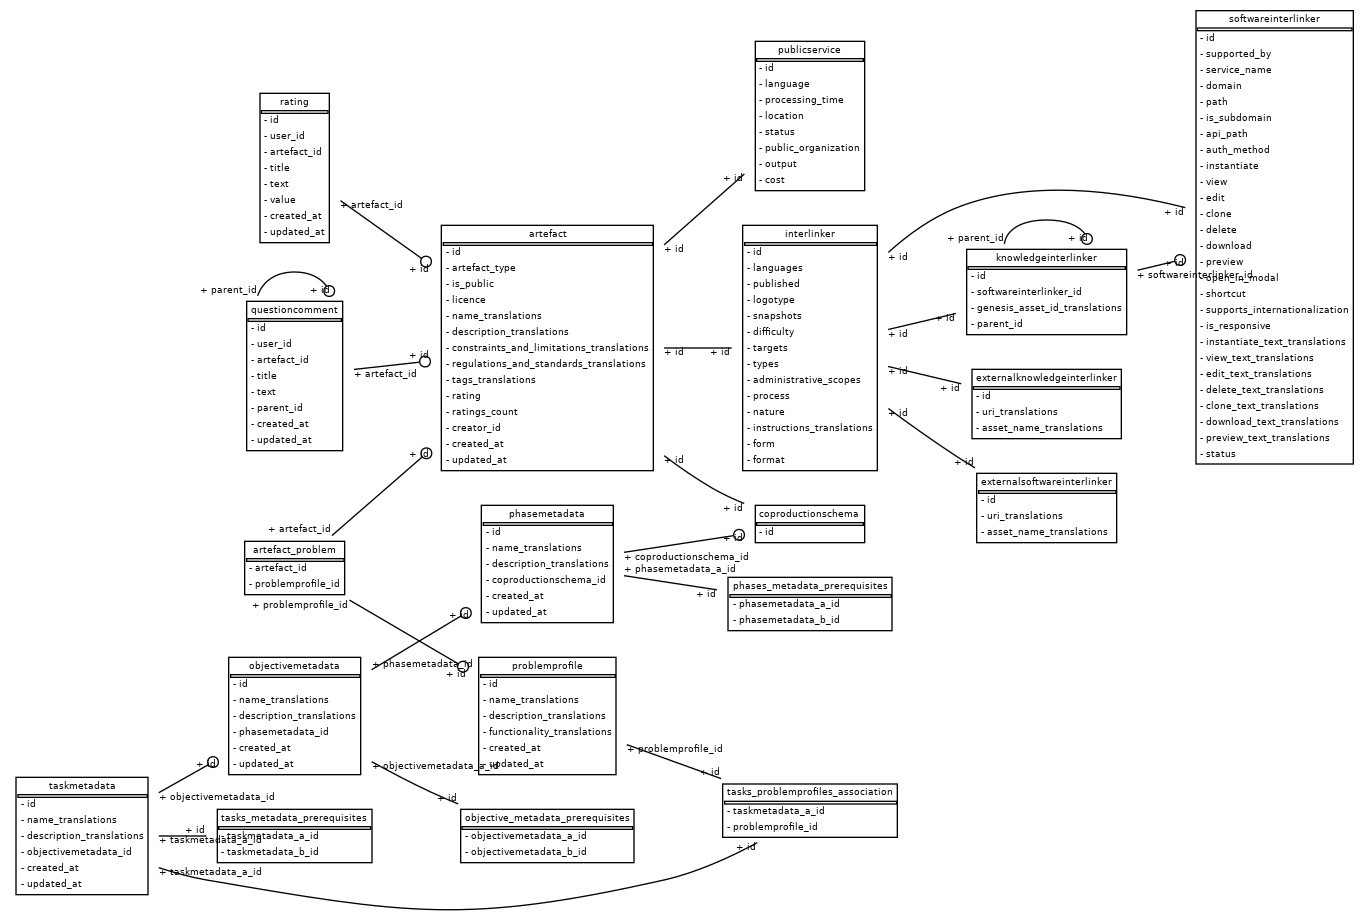
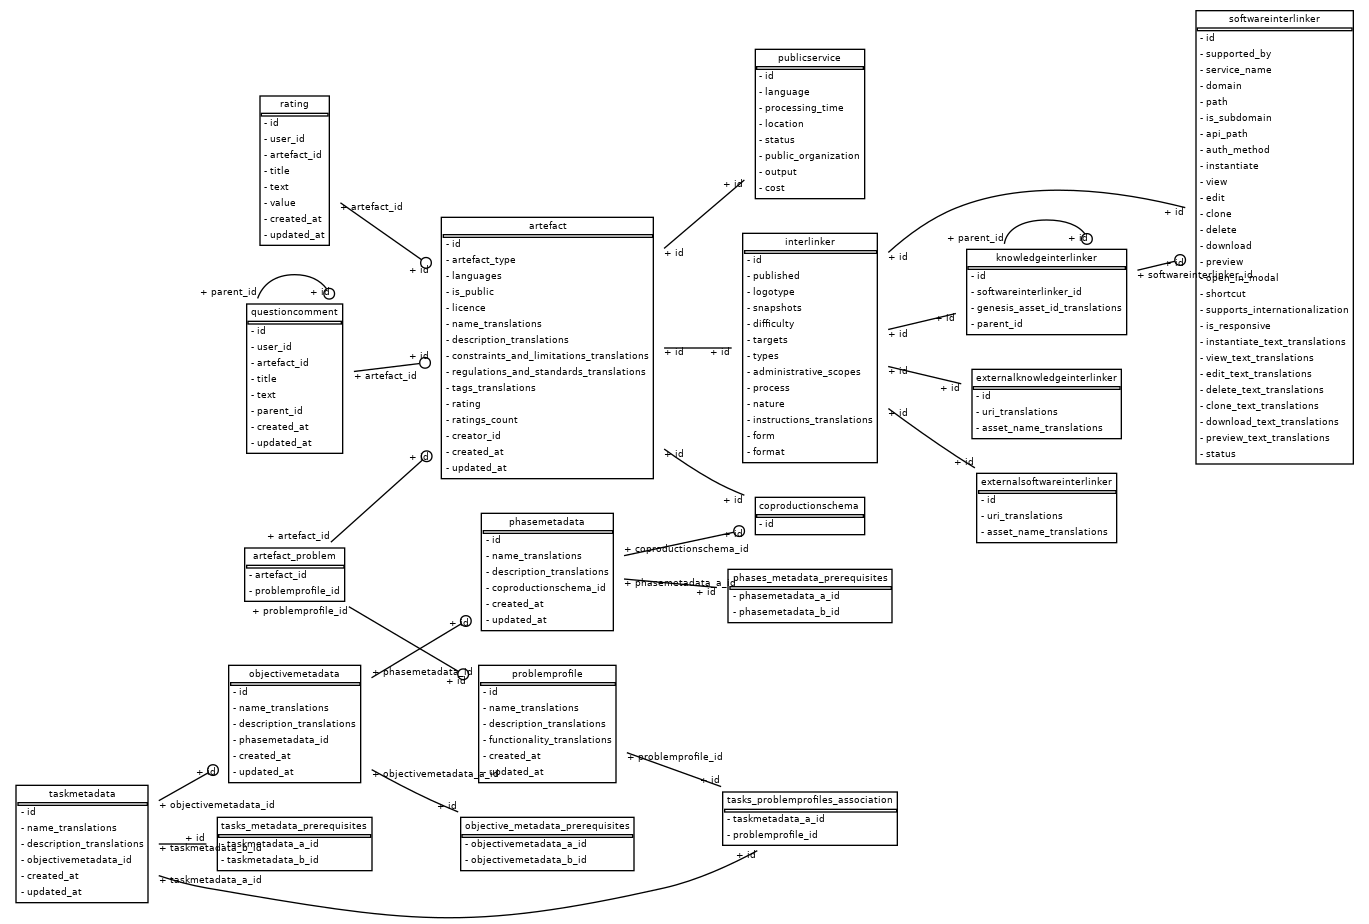
Avoid circular prerequisites

diff --git a/catalogue/app/initial_data.py b/catalogue/app/initial_data.py
@@ -20,8 +20,6 @@ logger = logging.getLogger(__name__)
 
 # in start-dev.sh and start-prod.sh it is made a git clone of https://github.com/interlink-project/interlinkers-data/
 
-remove = False
-
 class bcolors:
     HEADER = "\033[95m"
     OKBLUE = "\033[94m"
@@ -89,10 +87,8 @@ async def create_interlinker(db, metadata_path, software=False, externalsoftware
     print(f"\n{bcolors.OKBLUE}Processing {bcolors.ENDC}{bcolors.BOLD}{name}{bcolors.ENDC}")
 
     if (interlinker := await crud.interlinker.get_by_name(db=db, name=name)):
-        if not remove: 
-            print(f"\t{bcolors.WARNING}Already in the database{bcolors.ENDC}")
-            return
-        crud.interlinker.remove(db=db, id=interlinker.id)
+        print(f"\t{bcolors.WARNING}Already in the database{bcolors.ENDC}")
+        return
 
     # parent folder where metadata.json is located
     folder = metadata_path.parents[0]
@@ -187,15 +183,13 @@ async def create_problemprofile(db, problem):
         db=db,
         id=id
     ):
-        if not remove:
-            print(f"\t{bcolors.WARNING}{id} already in the database{bcolors.ENDC}")
-            await crud.problemprofile.update(
-                db=db,
-                db_obj=pp,
-                obj_in=schemas.ProblemProfilePatch(**problem)
-            )
-            return
-        await crud.problemprofile.remove(db=db, id=pp.id)
+        print(f"\t{bcolors.WARNING}{id} already in the database{bcolors.ENDC}")
+        await crud.problemprofile.update(
+            db=db,
+            db_obj=pp,
+            obj_in=schemas.ProblemProfilePatch(**problem)
+        )
+        return
     await crud.problemprofile.create(
         db=db,
         obj_in=schemas.ProblemProfileCreate(**problem)
@@ -206,26 +200,26 @@ async def create_problemprofile(db, problem):
 async def create_coproductionschema(db, schema_data):
     name = schema_data["name_translations"]["en"]
     if (sc := await crud.coproductionschema.get_by_name(db=db, locale="en", name=name)):
-        if not remove:
-            print(f"\t{bcolors.WARNING}{name} already in the database{bcolors.ENDC}")
-            await crud.coproductionschema.update(
-                db=db,
-                db_obj=sc,
-                obj_in=schemas.CoproductionSchemaPatch(
-                    **schema_data, is_public=True
-                )
+        print(f"\t{bcolors.WARNING}{name} already in the database{bcolors.ENDC}")
+        SCHEMA = await crud.coproductionschema.update(
+            db=db,
+            db_obj=sc,
+            obj_in=schemas.CoproductionSchemaPatch(
+                **schema_data, is_public=True
             )
-            return
-        await crud.coproductionschema.remove(db=db, id=sc.id)
-        print(f"Schema {name} removed")
-
-    print(f"{bcolors.OKBLUE}## Processing {bcolors.ENDC}{name}{bcolors.OKBLUE}")
-    SCHEMA = await crud.coproductionschema.create(
+        )
+    else:
+        SCHEMA = await crud.coproductionschema.create(
         db=db,
         obj_in=schemas.CoproductionSchemaCreate(
             **schema_data, is_public=True
         )
     )
+
+    print(f"{bcolors.OKBLUE}## Processing {bcolors.ENDC}{name}{bcolors.OKBLUE}")     
+    for i in SCHEMA.phasemetadatas:
+        await crud.phasemetadata.remove(db=db, id=i.id)
+    
     phases_resume = {}
     phase_data: dict
     for phase_data in schema_data["phases"]:
@@ -319,9 +313,11 @@ async def init():
                 await create_problemprofile(db, problem)
 
         # create coproduction schemas
-        data = requests.get("https://raw.githubusercontent.com/interlink-project/interlinkers-data/master/all.json").json()
-        for schema_data in data["schemas"]:
-            await create_coproductionschema(db, schema_data)
+        # data = requests.get("https://raw.githubusercontent.com/interlink-project/interlinkers-data/master/all.json").json()
+        with open("/app/interlinkers-data/all.json") as json_file:
+            data = json.load(json_file)
+            for schema_data in data["schemas"]:
+                await create_coproductionschema(db, schema_data)
 
         # create external interlinkers first
         for metadata_path in Path("/app/interlinkers-data/interlinkers").glob("externalsoftware/**/metadata.json"):

diff --git a/catalogue/app/coproductionschemas/crud.py b/catalogue/app/coproductionschemas/crud.py
@@ -15,6 +15,15 @@ from app.problemprofiles.crud import exportCrud as problemprofilesCrud
 from app.schemas import CoproductionSchemaCreate, CoproductionSchemaPatch, TaskMetadataCreate, TaskMetadataPatch, ObjectiveMetadataCreate, ObjectiveMetadataPatch, PhaseMetadataCreate, PhaseMetadataPatch
 from app.config import settings
 
+
+def recursive_check(id, obj):
+    if hasattr(obj, "prerequisites"):
+        for pre in obj.prerequisites:
+            if id == pre.id:
+                raise Exception("Circular prerequisite")
+            return recursive_check(id, pre)
+    return
+
 class CRUDCoproductionSchema(CRUDBase[CoproductionSchema, CoproductionSchemaCreate, CoproductionSchemaPatch]):
     async def get_multi(
         self, db: Session, search: str = "", rating: int = 0, creator: list = [], language: str = settings.DEFAULT_LANGUAGE
@@ -83,6 +92,8 @@ class CRUDObjectiveMetadata(CRUDBase[ObjectiveMetadata, ObjectiveMetadataCreate,
     async def add_prerequisite(self, db: Session, objectivemetadata: ObjectiveMetadata, prerequisite: ObjectiveMetadata) -> ObjectiveMetadata:
         if objectivemetadata.id == prerequisite.id:
             raise Exception("Same object")
+
+        recursive_check(objectivemetadata.id, prerequisite)
         objectivemetadata.prerequisites.append(prerequisite)
         db.commit()
         db.refresh(objectivemetadata)
@@ -127,6 +138,8 @@ class CRUDPhaseMetadata(CRUDBase[PhaseMetadata, PhaseMetadataCreate, PhaseMetada
     async def add_prerequisite(self, db: Session, phasemetadata: PhaseMetadata, prerequisite: PhaseMetadata) -> PhaseMetadata:
         if phasemetadata.id == prerequisite.id:
             raise Exception("Same object")
+            
+        recursive_check(phasemetadata.id, prerequisite)
         phasemetadata.prerequisites.append(prerequisite)
         db.commit()
         db.refresh(phasemetadata)
@@ -160,6 +173,8 @@ class CRUDTaskMetadata(CRUDBase[TaskMetadata, TaskMetadataCreate, TaskMetadataPa
     async def add_prerequisite(self, db: Session, taskmetadata: TaskMetadata, prerequisite: TaskMetadata) -> TaskMetadata:
         if taskmetadata.id == prerequisite.id:
             raise Exception("Same object")
+
+        recursive_check(taskmetadata.id, prerequisite)
         taskmetadata.prerequisites.append(prerequisite)
         db.commit()
         db.refresh(taskmetadata)

diff --git a/catalogue/app/coproductionschemas/models.py b/catalogue/app/coproductionschemas/models.py
@@ -17,27 +17,27 @@ from app.artefacts.models import Artefact
 phases_prerequisites_metadata = Table(
     'phases_metadata_prerequisites', BaseModel.metadata,
     Column('phasemetadata_a_id', ForeignKey('phasemetadata.id'), primary_key=True),
-    Column('phasemetadata_b_id', ForeignKey('phasemetadata.id'), primary_key=True)
+    Column('phasemetadata_b_id', ForeignKey('phasemetadata.id', ondelete="CASCADE"), primary_key=True)
 )
 
 
 objectives_prerequisites_metadata = Table(
     'objective_metadata_prerequisites', BaseModel.metadata,
     Column('objectivemetadata_a_id', ForeignKey('objectivemetadata.id'), primary_key=True),
-    Column('objectivemetadata_b_id', ForeignKey('objectivemetadata.id'), primary_key=True)
+    Column('objectivemetadata_b_id', ForeignKey('objectivemetadata.id', ondelete="CASCADE"), primary_key=True)
 )
 
 
 tasks_prerequisites_metadata = Table(
     'tasks_metadata_prerequisites', BaseModel.metadata,
     Column('taskmetadata_a_id', ForeignKey('taskmetadata.id'), primary_key=True),
-    Column('taskmetadata_b_id', ForeignKey('taskmetadata.id'), primary_key=True)
+    Column('taskmetadata_b_id', ForeignKey('taskmetadata.id', ondelete="CASCADE"), primary_key=True)
 )
 
 tasks_problemprofiles_association = Table(
     'tasks_problemprofiles_association', BaseModel.metadata,
     Column('taskmetadata_a_id', ForeignKey('taskmetadata.id'), primary_key=True),
-    Column('problemprofile_id', ForeignKey('problemprofile.id'), primary_key=True)
+    Column('problemprofile_id', ForeignKey('problemprofile.id', ondelete="CASCADE"), primary_key=True)
 )
 
 

diff --git a/catalogue/app/artefacts/schemas.py b/catalogue/app/artefacts/schemas.py
@@ -4,12 +4,14 @@ from typing import Dict, List, Optional
 
 from pydantic import BaseModel as PydanticBaseModel, validator
 from pydantic_choices import choice
+from app.config import settings
 
 Licences = choice(["public_domain", "permissive", "copyleft",
                   "non_commercial", "propietary"])
 
 
 class ArtefactBase(PydanticBaseModel):
+    languages: list = [settings.DEFAULT_LANGUAGE]
     is_public: bool = True
     licence: Licences
 

diff --git a/catalogue/app/artefacts/models.py b/catalogue/app/artefacts/models.py
@@ -30,7 +30,7 @@ from app.ratings.models import Rating
 class Artefact(BaseModel):
     id = Column(UUID(as_uuid=True), primary_key=True, default=uuid.uuid4)
     artefact_type = Column(String(70))
-
+    languages = Column(ARRAY(String), default=list)
     is_public = Column(Boolean, default=False)
     licence = Column(String, nullable=True)
 

diff --git a/catalogue/app/interlinkers/schemas.py b/catalogue/app/interlinkers/schemas.py
@@ -33,7 +33,6 @@ Formats = choice(["pdf", "editable_source_document",
 
 
 class BaseInterlinkerBase(ArtefactBase):
-    languages: list = [settings.DEFAULT_LANGUAGE]
     published: Optional[bool]
     difficulty: Difficulties
     targets: Optional[List[Targets]]

diff --git a/catalogue/app/interlinkers/models.py b/catalogue/app/interlinkers/models.py
@@ -34,7 +34,6 @@ class Interlinker(Artefact):
         default=uuid.uuid4,
     )
     nature = Column(String)
-    languages = Column(ARRAY(String), default=list)
 
     published = Column(Boolean, default=False)
     logotype = Column(String, nullable=True)
